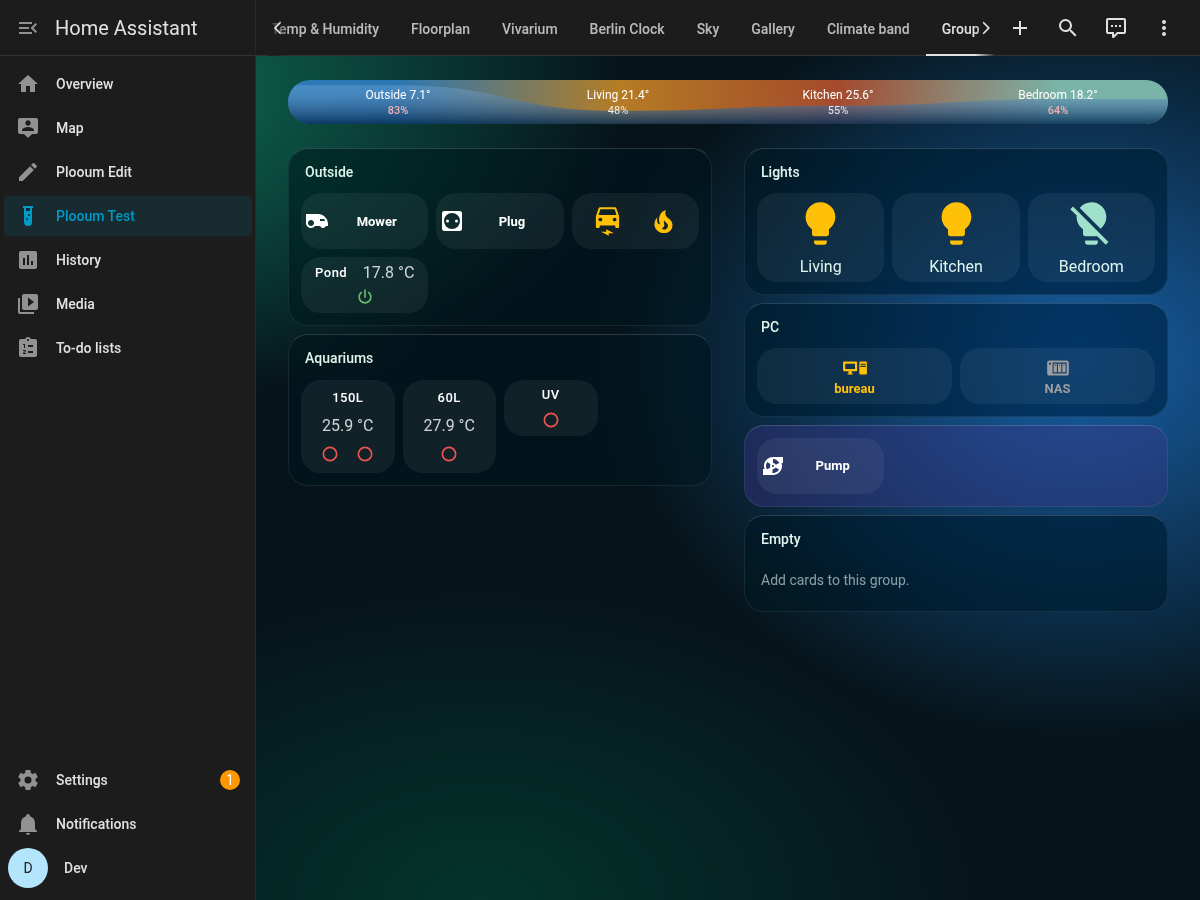
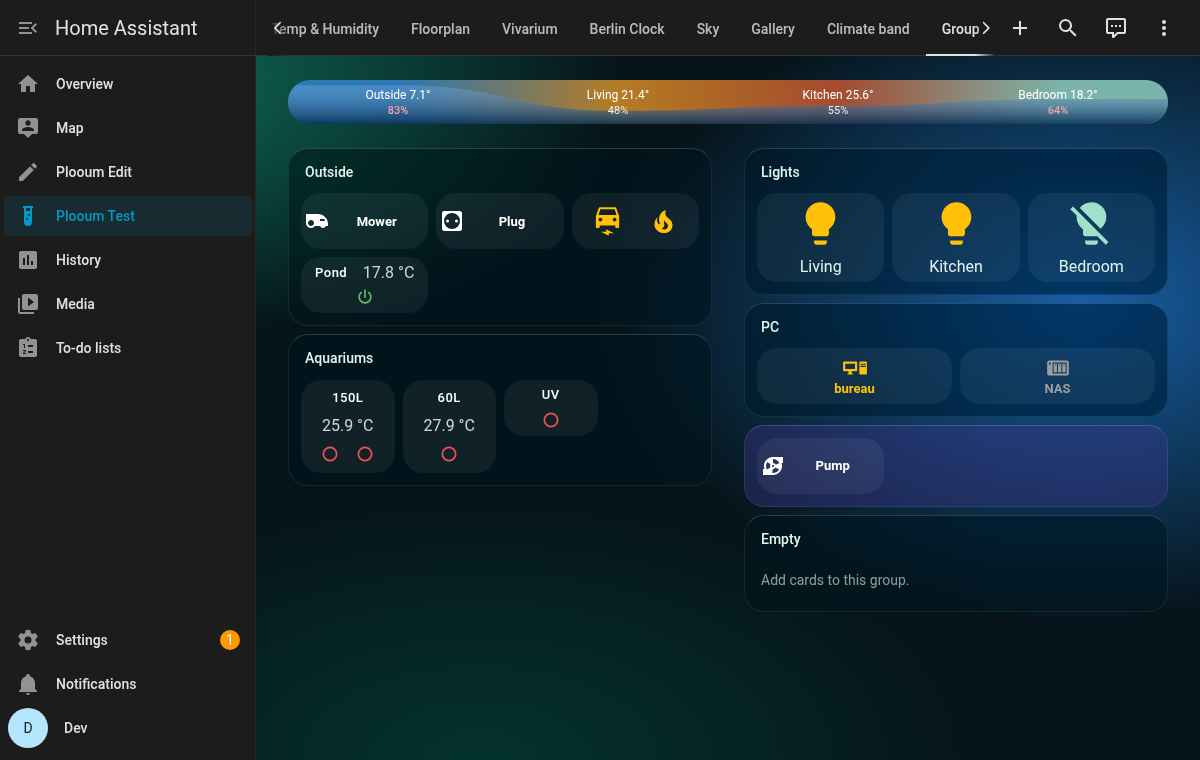
Trois thèmes sombres de plus : Braise, Boréale et Minuit (#1)
Même structure que Lagon (halos en dégradé CSS, cartes translucides,
couleur du verre de la carte groupe), dans le même fichier de thème.
Un aperçu par thème, READMEs à jour.

diff --git a/README.fr.md b/README.fr.md
@@ -12,11 +12,29 @@ Des thèmes Home Assistant pensés pour aller avec les [HA Plooum Cards](https:/
 | Thème | Mode | Pensé pour |
 | :--- | :--- | :--- |
 | Plooum Lagon | Sombre | Groupes en verre dépoli (`ha-plooum-group-card`), bande climat |
+| Plooum Braise | Sombre | Le soir : anthracite chaud, ambre et corail |
+| Plooum Boréale | Sombre | Le verre le plus coloré : nuit violette, voiles vert d'eau et magenta |
+| Plooum Minuit | Sombre | Le plus sobre : bleu encre profond, halos acier |
 
 ### Plooum Lagon
 Un thème sombre bleu canard et turquoise : des halos de couleur doux en fond (un dégradé CSS, aucune image à charger), des cartes translucides, et la couleur du verre dépoli de la carte groupe Plooum (`plooum-group-color`).
 
 ![Aperçu de Plooum Lagon](previews/lagon.png)
+
+### Plooum Braise
+Un anthracite chaud aux halos ambre et corail, comme un feu qui couve : le plus chaleureux, pour le soir. Les appareils allumés s'éclairent en ambre et corail.
+
+![Aperçu de Plooum Braise](previews/braise.png)
+
+### Plooum Boréale
+Une nuit violette traversée de voiles vert d'eau et magenta, comme une aurore boréale : le plus coloré, celui où le verre dépoli est le plus beau. Son accent est vert d'eau.
+
+![Aperçu de Plooum Boréale](previews/boreale.png)
+
+### Plooum Minuit
+Un bleu encre profond aux halos acier froids : le plus sobre, rien ne détourne l'œil des données. Son accent est bleu ciel.
+
+![Aperçu de Plooum Minuit](previews/minuit.png)
 
 ---
 
@@ -38,7 +56,7 @@ Copie [themes/plooum.yaml](themes/plooum.yaml) dans le dossier `themes/` de ta c
      themes: !include_dir_merge_named themes
    ```
    Après l'ajout de cette ligne, redémarre Home Assistant. Pour les mises à jour suivantes, l'action **Recharger les thèmes** (`frontend.reload_themes`) suffit.
-2. Choisis le thème dans ton profil (*Profil → Thème*), ou sur une seule vue avec `theme: Plooum Lagon` dans le YAML de la vue.
+2. Choisis le thème dans ton profil (*Profil → Thème*), ou sur une seule vue avec `theme: Plooum Lagon` (ou tout autre thème Plooum) dans le YAML de la vue.
 3. Le fond propre d'une vue (paramètres de la vue → **Arrière-plan**) passe par-dessus celui du thème : mets-le à « aucun » pour voir les halos du thème.
 
 ## Variables de thème pour les cartes Plooum

diff --git a/README.md b/README.md
@@ -12,11 +12,29 @@ Home Assistant themes made to go with the [HA Plooum Cards](https://github.com/p
 | Theme | Mode | Made for |
 | :--- | :--- | :--- |
 | Plooum Lagon | Dark | Frosted glass groups (`ha-plooum-group-card`), climate band |
+| Plooum Braise | Dark | Evenings: warm charcoal, amber and coral |
+| Plooum Boréale | Dark | The most colorful glass: violet night, sea green and magenta veils |
+| Plooum Minuit | Dark | The most sober: deep ink blue, steel halos |
 
 ### Plooum Lagon
 A dark teal and turquoise theme: soft colored halos as the background (a CSS gradient, no image to load), translucent cards, and the color of the frosted glass of the Plooum group card (`plooum-group-color`).
 
 ![Plooum Lagon preview](previews/lagon.png)
+
+### Plooum Braise
+A warm charcoal with amber and coral halos, like smouldering embers: the coziest, for the evening. Lit devices glow amber and coral.
+
+![Plooum Braise preview](previews/braise.png)
+
+### Plooum Boréale
+A violet night crossed by sea green and magenta veils, like a northern light: the most colorful, where the frosted glass looks its best. Its accent is sea green.
+
+![Plooum Boréale preview](previews/boreale.png)
+
+### Plooum Minuit
+A deep ink blue with cold steel halos: the most sober, nothing draws the eye away from the data. Its accent is sky blue.
+
+![Plooum Minuit preview](previews/minuit.png)
 
 ---
 
@@ -38,7 +56,7 @@ Copy [themes/plooum.yaml](themes/plooum.yaml) into the `themes/` folder of your 
      themes: !include_dir_merge_named themes
    ```
    After adding this line, restart Home Assistant. For later updates, the **Reload themes** action (`frontend.reload_themes`) is enough.
-2. Pick the theme in your profile (*Profile → Theme*), or on a single view with `theme: Plooum Lagon` in the view's YAML.
+2. Pick the theme in your profile (*Profile → Theme*), or on a single view with `theme: Plooum Lagon` (or any other Plooum theme) in the view's YAML.
 3. A view's own background (view settings → **Background**) is drawn over the theme's: set it to none to see the theme's halos.
 
 ## Theme variables for the Plooum cards
